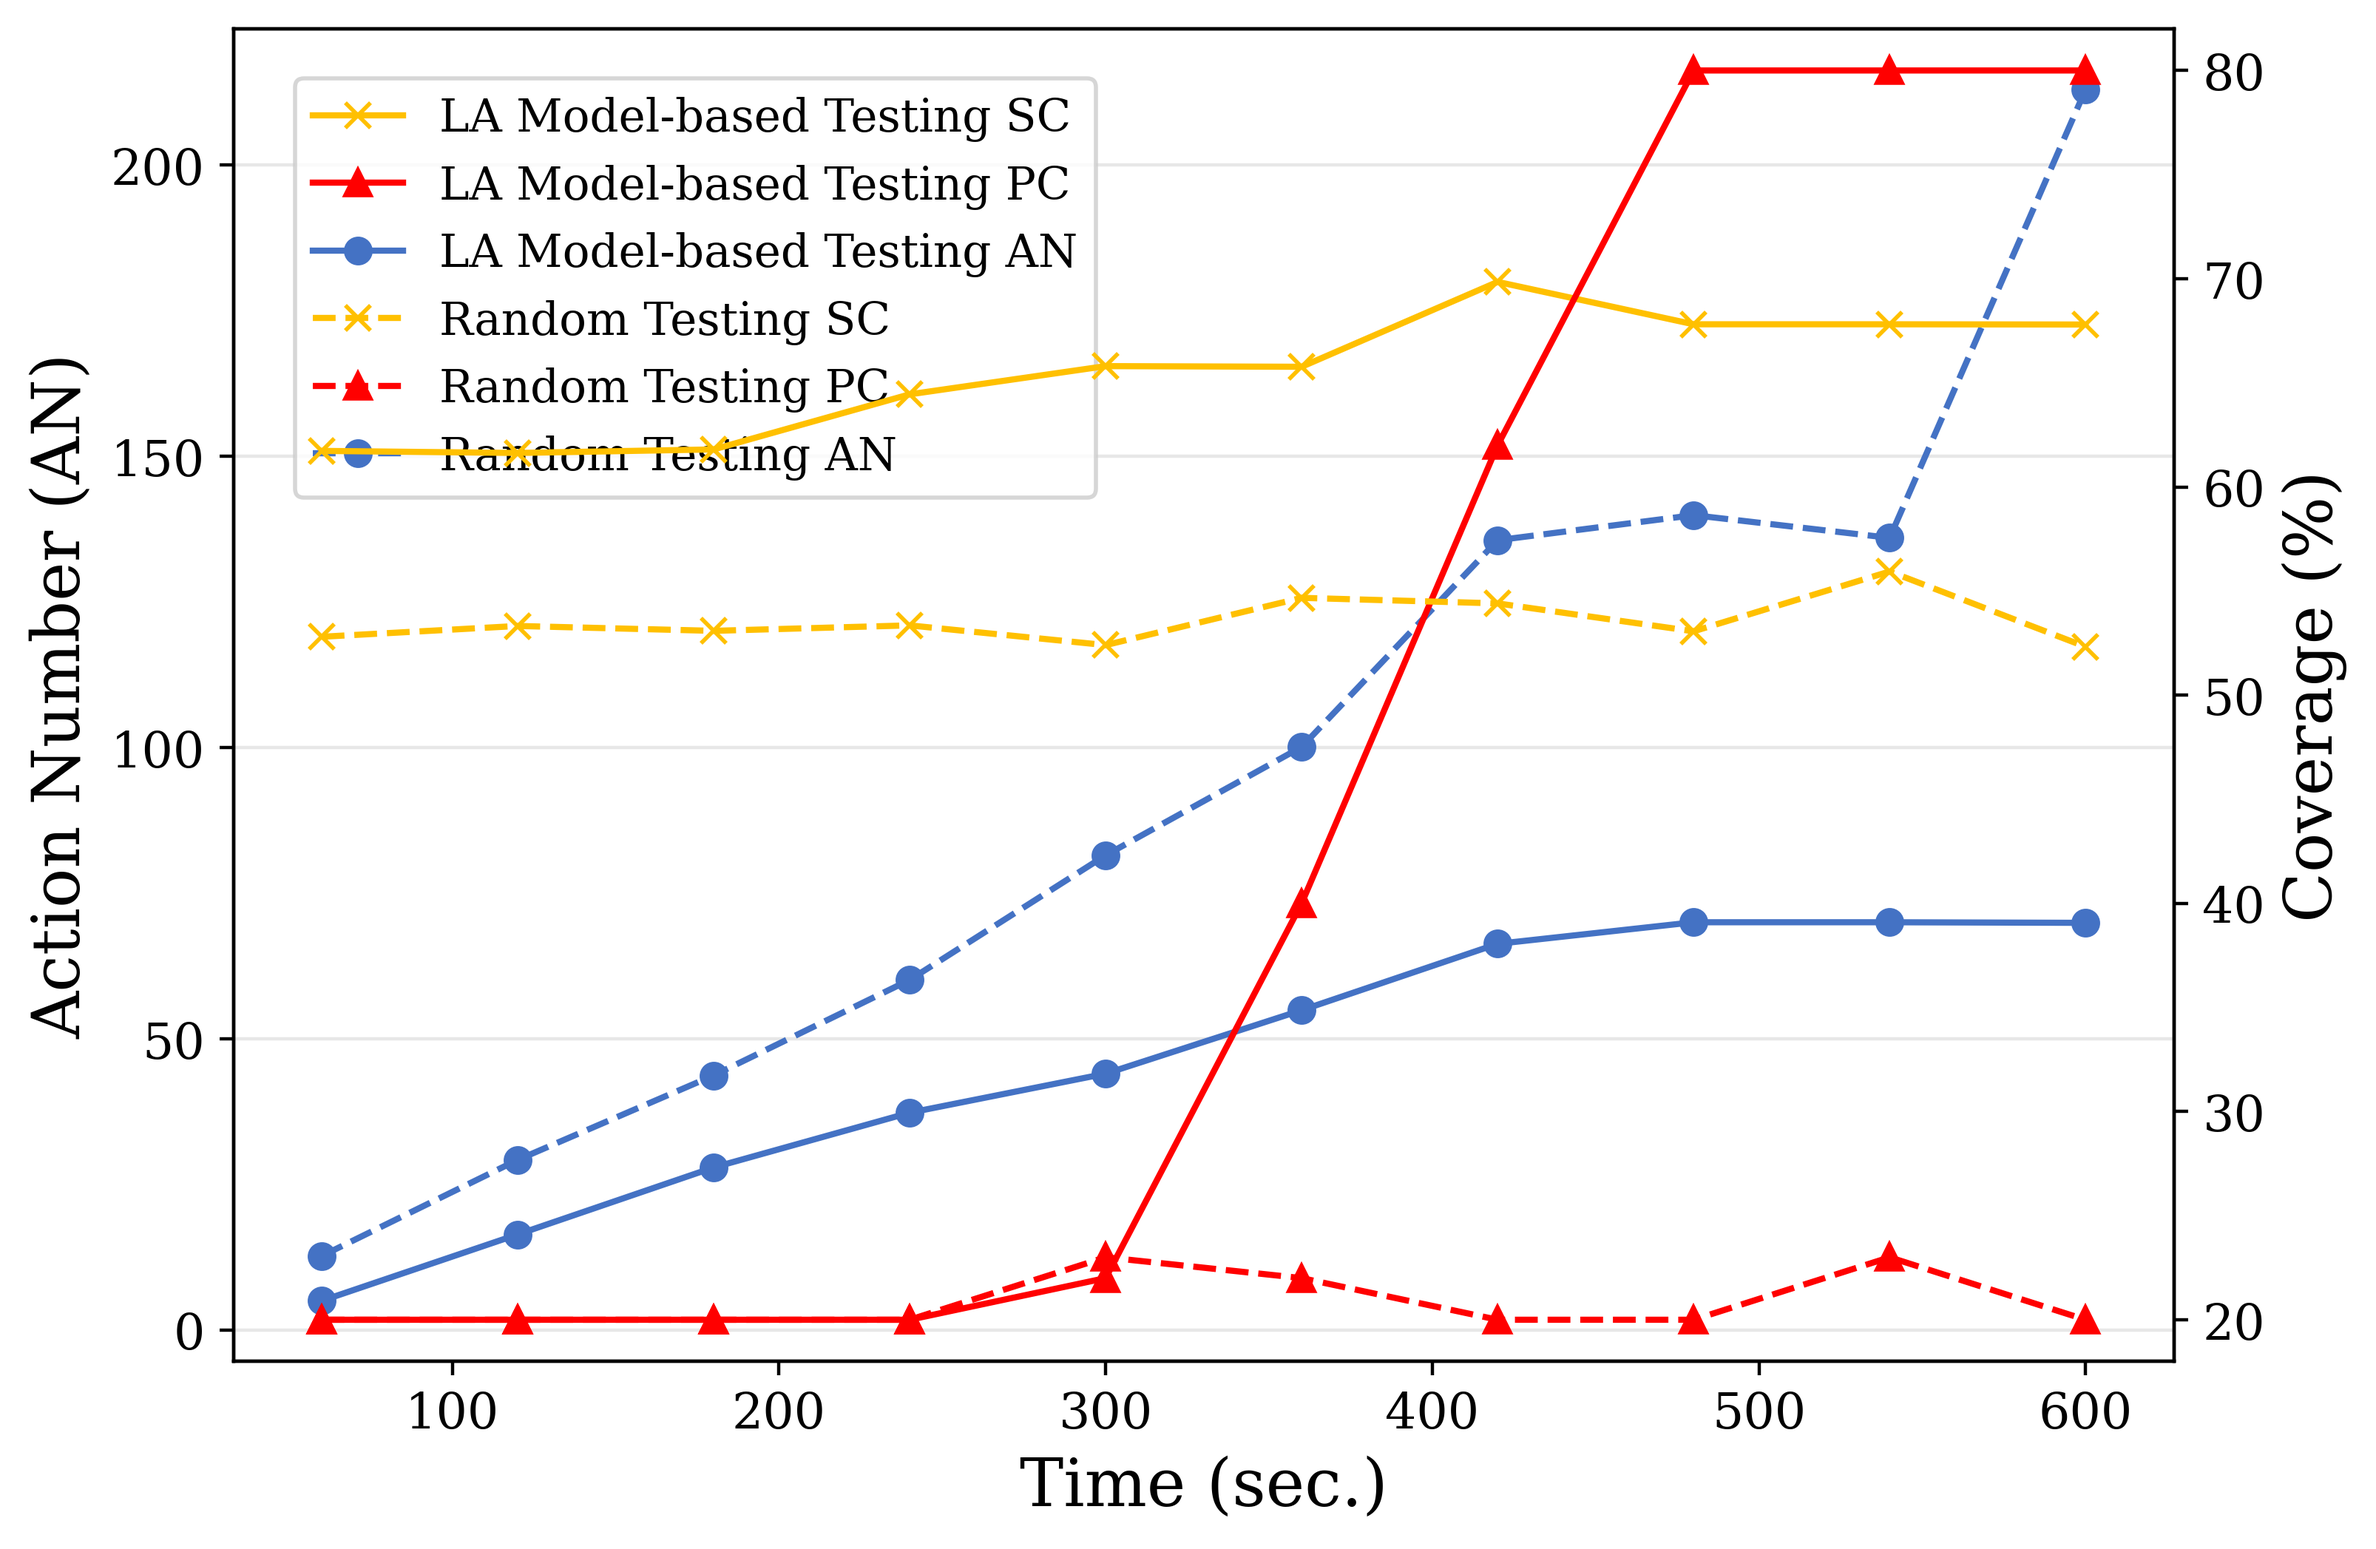
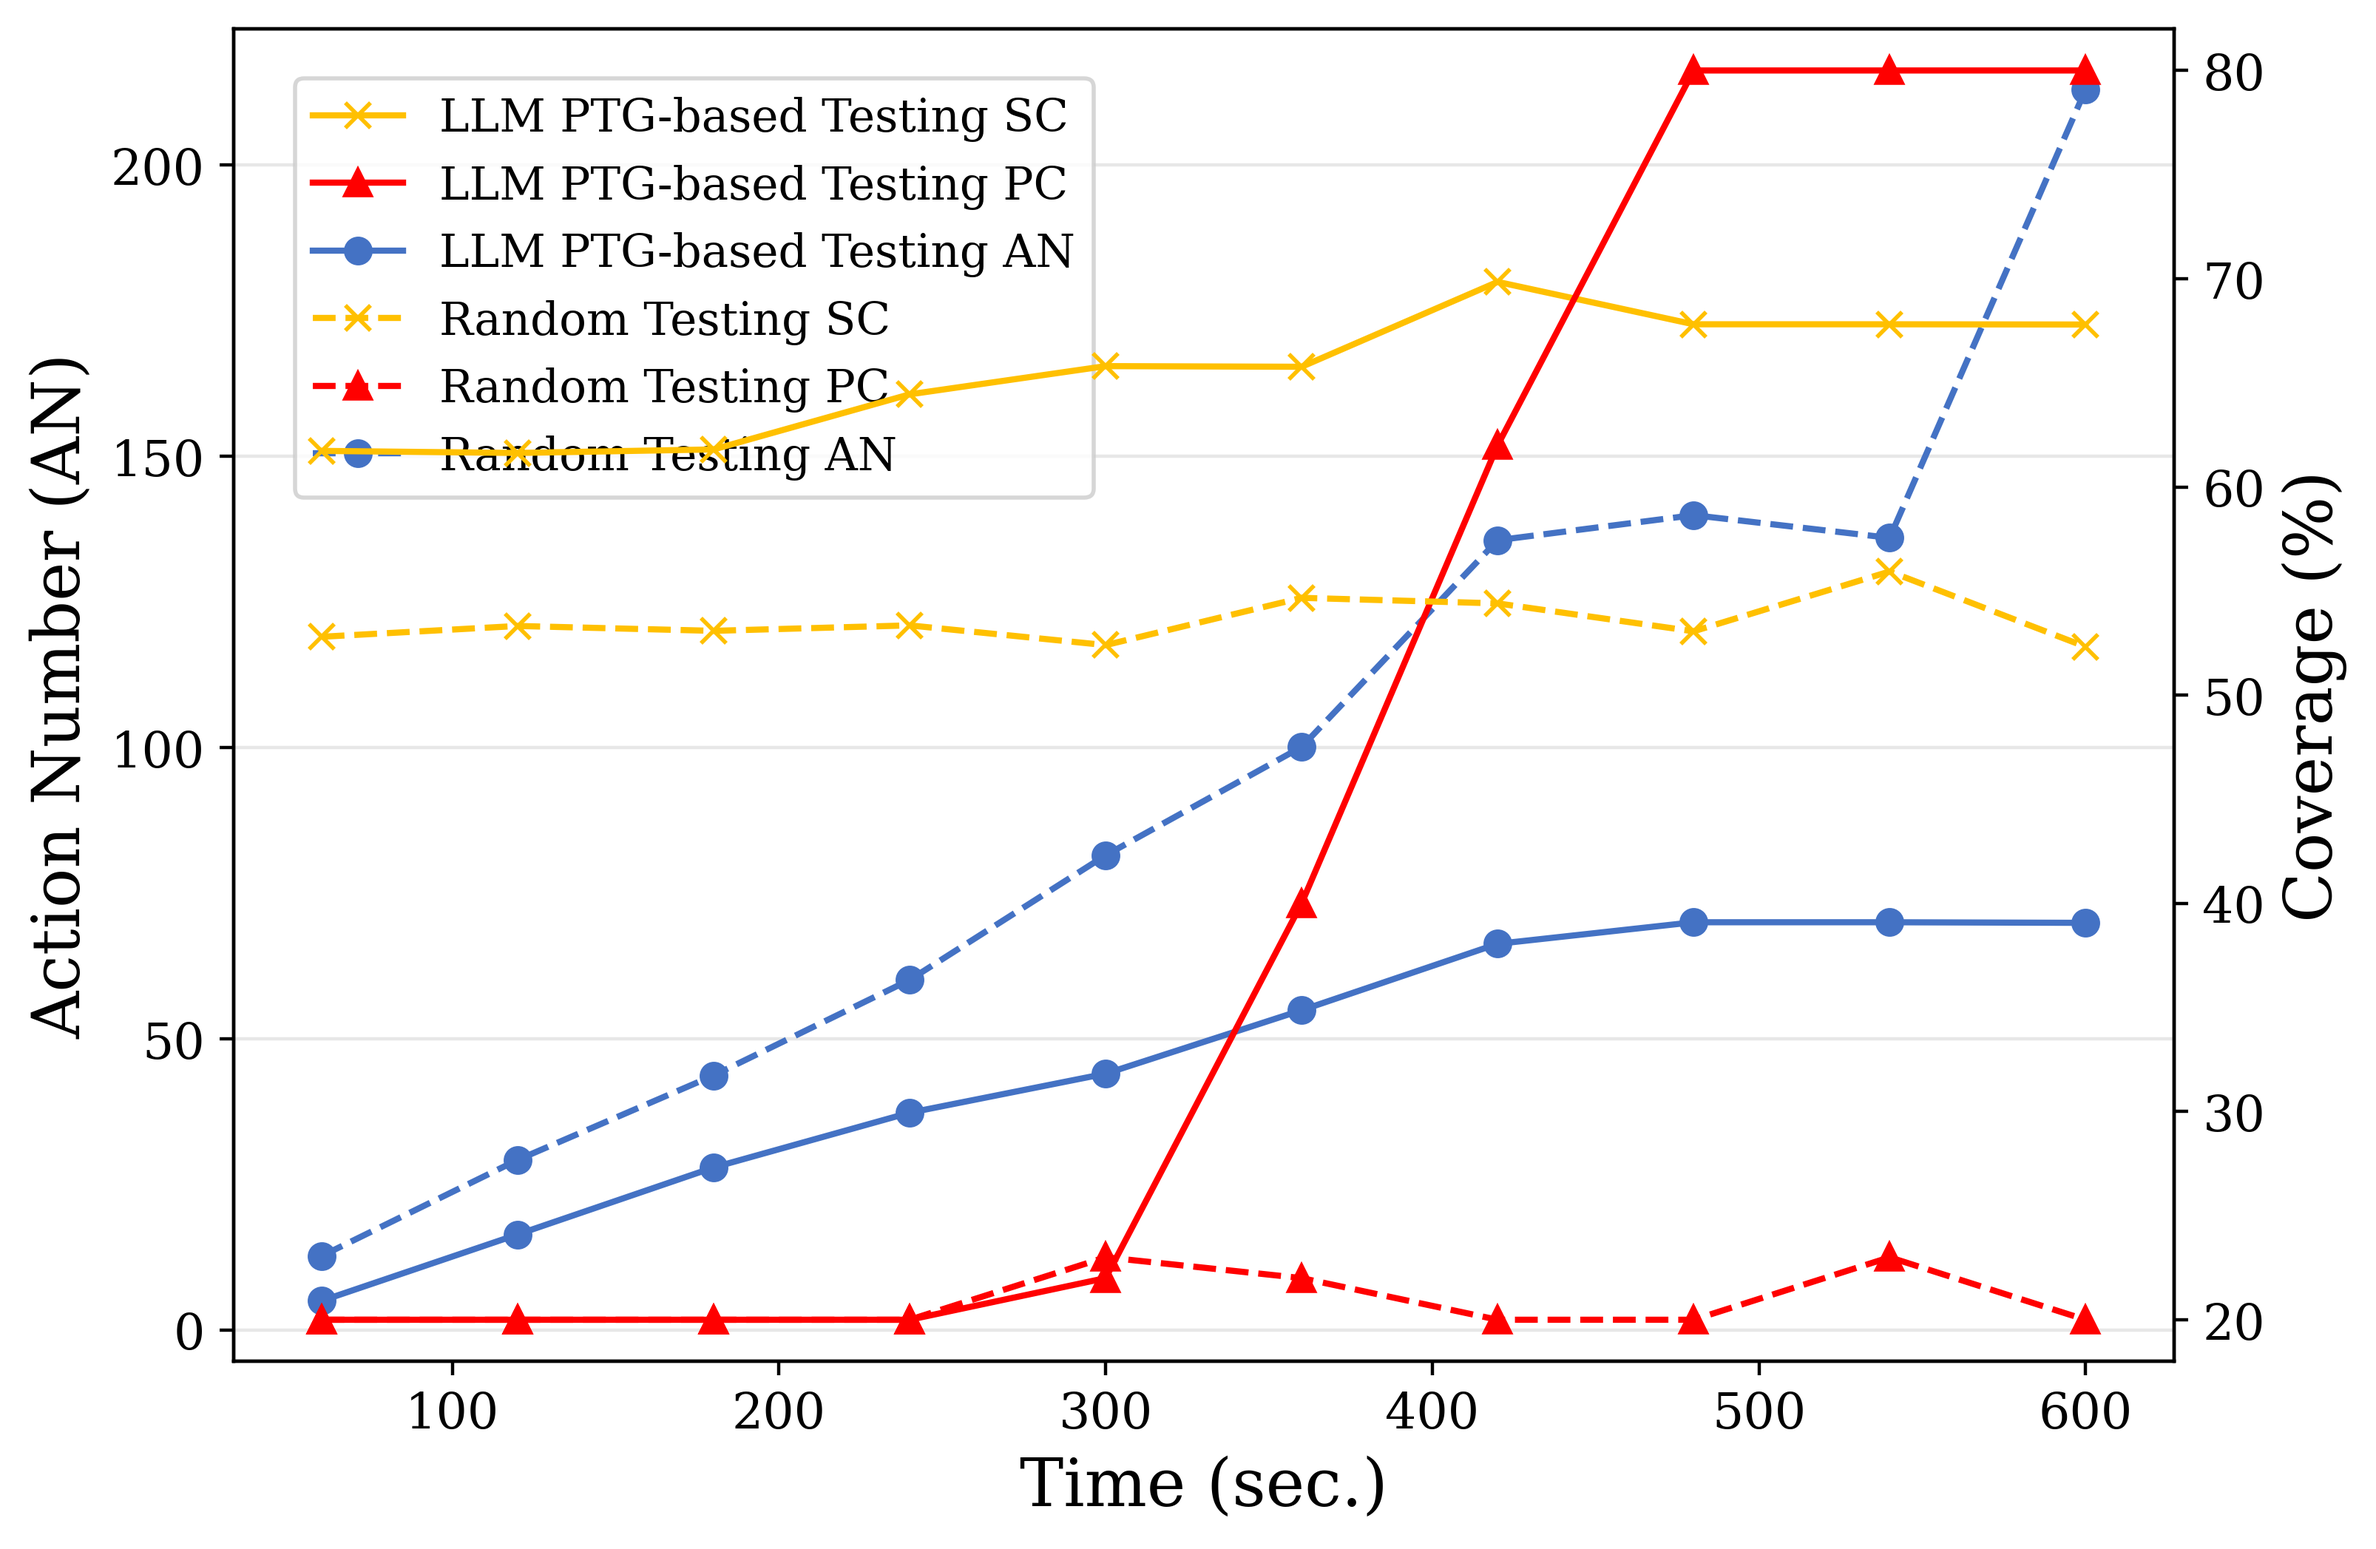
mod: 修改命名

Changed region(s): [[0.1867, 0.0621, 0.4669, 0.1862]]

diff --git a/data/diagram_2.py b/data/diagram_2.py
@@ -27,15 +27,15 @@ def load_sheet(sheet_name):
 
     times = np.array([r[0] for r in data])
 
-    la_sc = np.array([parse_percent(r[1]) for r in data])
-    la_pc = np.array([parse_percent(r[2]) for r in data])
-    la_an = np.array([r[3] for r in data])
+    lp_sc = np.array([parse_percent(r[1]) for r in data])
+    lp_pc = np.array([parse_percent(r[2]) for r in data])
+    lp_an = np.array([r[3] for r in data])
 
     other_sc = np.array([parse_percent(r[4]) for r in data])
     other_pc = np.array([parse_percent(r[5]) for r in data])
     other_an = np.array([r[6] for r in data])
 
-    return times, la_sc, la_pc, la_an, other_sc, other_pc, other_an
+    return times, lp_sc, lp_pc, lp_an, other_sc, other_pc, other_an
 
 # ======================
 # 4. 配色（统一）
@@ -58,29 +58,29 @@ plt.rcParams.update({
 # ======================
 fig, axes = plt.subplots(1, 2, figsize=(12, 5))
 
-sheet_names = ["LAMT vs SAMT1", "LAMT vs SAMT2"]
-titles = ["(a) LAMT vs SAMT1", "(b) LAMT vs SAMT2"]
+sheet_names = ["LMT vs SAMT1", "LMT vs SAMT2"]
+titles = ["(a) LMT vs SAMT1", "(b) LMT vs SAMT2"]
 
 for i, (ax_left, sheet_name, title) in enumerate(zip(axes, sheet_names, titles)):
 
     # ---- 数据 ----
-    times, la_sc, la_pc, la_an, other_sc, other_pc, other_an = load_sheet(sheet_name)
+    times, lp_sc, lp_pc, lp_an, other_sc, other_pc, other_an = load_sheet(sheet_name)
 
     ax_right = ax_left.twinx()
 
     # ---- 左轴：AN ----
-    l3, = ax_left.plot(times, la_an, color=COLOR_AN, marker='o',
-                      linestyle='-', label='LAMT AN')
+    l3, = ax_left.plot(times, lp_an, color=COLOR_AN, marker='o',
+                      linestyle='-', label='LMT AN')
 
     l6, = ax_left.plot(times, other_an, color=COLOR_AN, marker='o',
                       linestyle='--', label='SAMT AN')
 
     # ---- 右轴：Coverage ----
-    l1, = ax_right.plot(times, la_sc, color=COLOR_SC, marker='x',
-                       linestyle='-', label='LAMT SC')
+    l1, = ax_right.plot(times, lp_sc, color=COLOR_SC, marker='x',
+                       linestyle='-', label='LMT SC')
 
-    l2, = ax_right.plot(times, la_pc, color=COLOR_PC, marker='^',
-                       linestyle='-', label='LAMT PC')
+    l2, = ax_right.plot(times, lp_pc, color=COLOR_PC, marker='^',
+                       linestyle='-', label='LMT PC')
 
     l4, = ax_right.plot(times, other_sc, color=COLOR_SC, marker='x',
                        linestyle='--', label='SAMT SC')
@@ -99,8 +99,8 @@ for i, (ax_left, sheet_name, title) in enumerate(zip(axes, sheet_names, titles))
     ax_right.set_ylim(20, 80)
     
     ax_right.set_ylim(
-			min(la_sc.min(), other_sc.min(), la_pc.min(), other_pc.min()) - 2,
-			max(la_sc.max(), other_sc.max(), la_pc.max(), other_pc.max()) + 2
+			min(lp_sc.min(), other_sc.min(), lp_pc.min(), other_pc.min()) - 2,
+			max(lp_sc.max(), other_sc.max(), lp_pc.max(), other_pc.max()) + 2
 		)
 
     # ---- 标题 ----

diff --git a/data/diagram_1.py b/data/diagram_1.py
@@ -6,7 +6,7 @@ from openpyxl import load_workbook
 # 1. 读取 Excel
 # ======================
 file_path = "data/results.xlsx"   # 修改为你的路径
-sheet_name = "LAMT vs RT"
+sheet_name = "LMT vs RT"
 
 wb = load_workbook(file_path)
 sheet = wb[sheet_name]
@@ -26,9 +26,9 @@ def parse_percent(x):
 
 times = np.array([r[0] for r in data])
 
-la_sc = np.array([parse_percent(r[1]) for r in data])
-la_pc = np.array([parse_percent(r[2]) for r in data])
-la_an = np.array([r[3] for r in data])
+lp_sc = np.array([parse_percent(r[1]) for r in data])
+lp_pc = np.array([parse_percent(r[2]) for r in data])
+lp_an = np.array([r[3] for r in data])
 
 rand_sc = np.array([parse_percent(r[4]) for r in data])
 rand_pc = np.array([parse_percent(r[5]) for r in data])
@@ -60,10 +60,10 @@ fig, ax_left = plt.subplots(figsize=(8.2, 5.4))
 ax_right = ax_left.twinx()
 
 # ---- 左轴：AN ----
-l3, = ax_left.plot(times, la_an,
+l3, = ax_left.plot(times, lp_an,
                   color=COLOR_AN, marker='o',
                   linestyle='-',
-                  label='LA Model-based Testing AN')
+                  label='LLM PTG-based Testing AN')
 
 l6, = ax_left.plot(times, rand_an,
                   color=COLOR_AN, marker='o',
@@ -71,15 +71,15 @@ l6, = ax_left.plot(times, rand_an,
                   label='Random Testing AN')
 
 # ---- 右轴：Coverage ----
-l1, = ax_right.plot(times, la_sc,
+l1, = ax_right.plot(times, lp_sc,
                    color=COLOR_SC, marker='x',
                    linestyle='-',
-                   label='LA Model-based Testing SC')
+                   label='LLM PTG-based Testing SC')
 
-l2, = ax_right.plot(times, la_pc,
+l2, = ax_right.plot(times, lp_pc,
                    color=COLOR_PC, marker='^',
                    linestyle='-',
-                   label='LA Model-based Testing PC')
+                   label='LLM PTG-based Testing PC')
 
 l4, = ax_right.plot(times, rand_sc,
                    color=COLOR_SC, marker='x',
@@ -101,8 +101,8 @@ ax_right.set_ylabel("Coverage (%)")
 ax_right.set_ylim(20, 80)
 
 ax_right.set_ylim(
-    min(la_sc.min(), rand_sc.min(), la_pc.min(), rand_pc.min()) - 2,
-    max(la_sc.max(), rand_sc.max(), la_pc.max(), rand_pc.max()) + 2
+    min(lp_sc.min(), rand_sc.min(), lp_pc.min(), rand_pc.min()) - 2,
+    max(lp_sc.max(), rand_sc.max(), lp_pc.max(), rand_pc.max()) + 2
 )
 
 # 网格
